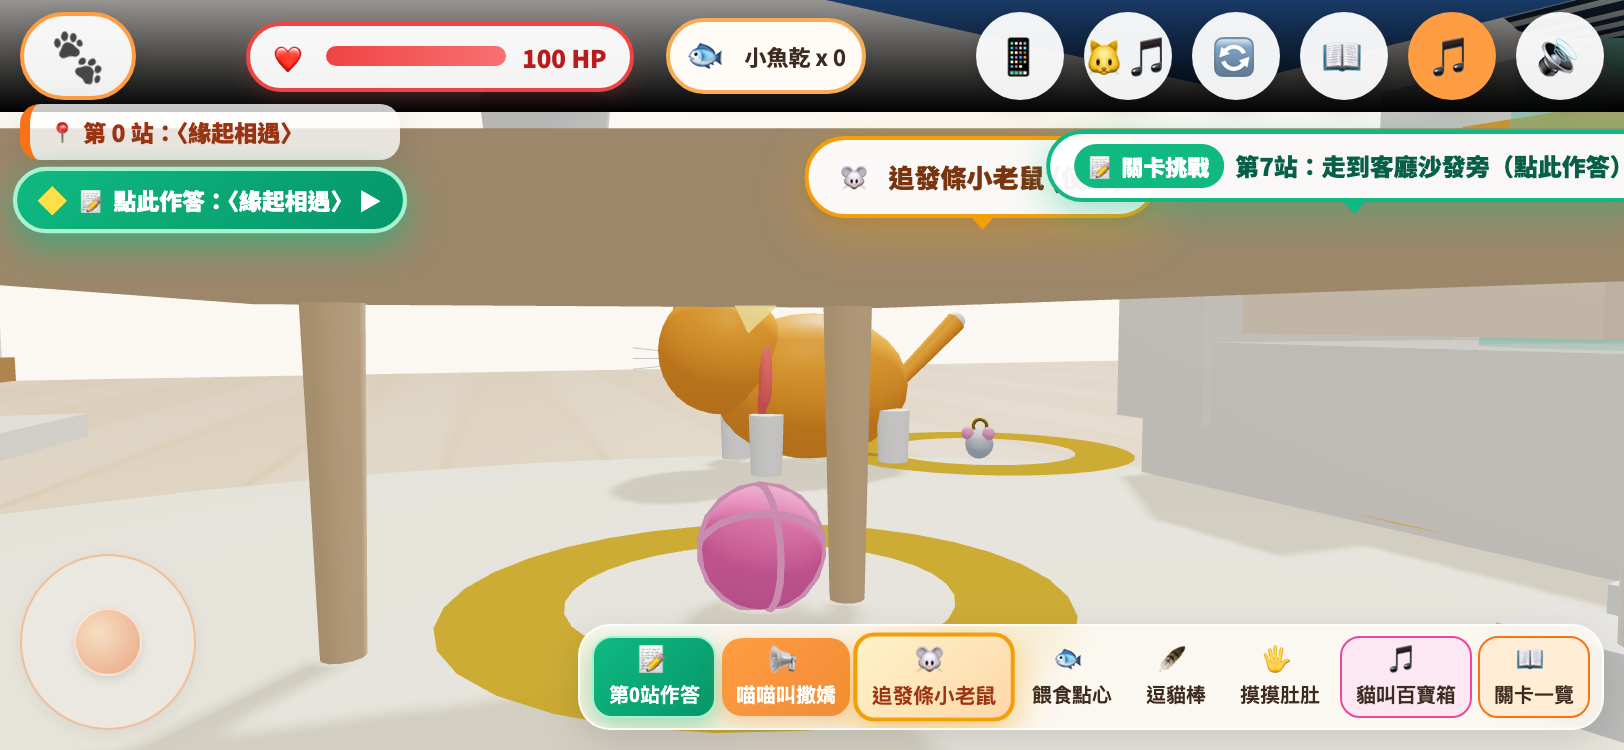
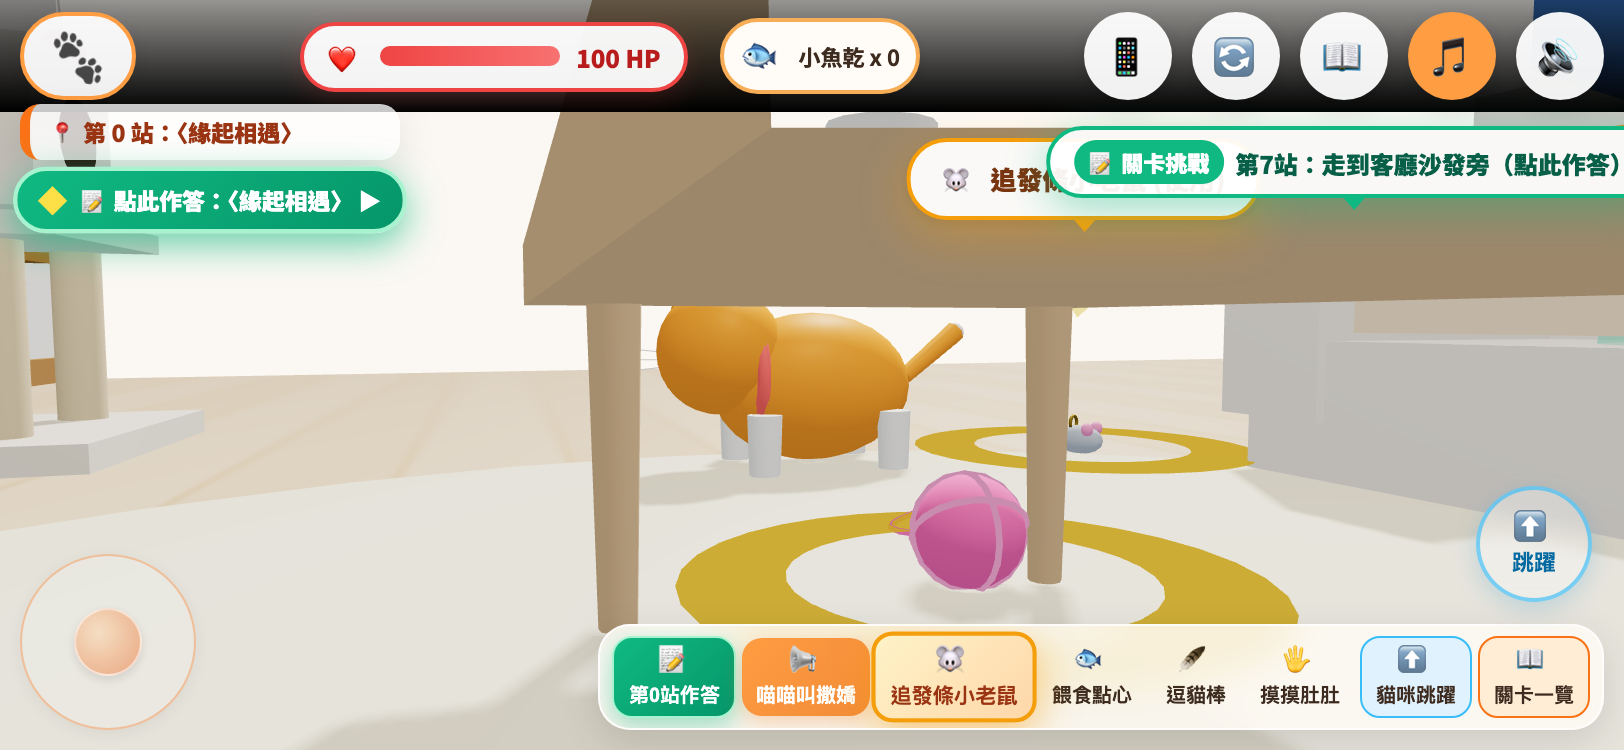
feat(ui,audio): remove soundboard, add anti-spam locks on meows and voices, add mobile/tablet jump buttons

diff --git a/js/game.js b/js/game.js
@@ -1649,7 +1649,17 @@ class GameEngine {
     if (btnLabel) btnLabel.textContent = isSitting ? '離開沙發' : '坐上沙發';
   }
 
+  acquireActionLock(ms = 2400) {
+    const now = Date.now();
+    if (this._actionLockUntil && now < this._actionLockUntil) {
+      return false;
+    }
+    this._actionLockUntil = now + ms;
+    return true;
+  }
+
   playWand() {
+    if (!this.acquireActionLock(2400)) return;
     if (window.soundSystem) {
       window.soundSystem.playClick();
       setTimeout(() => window.soundSystem.playRealMeow('playful'), 300);
@@ -1660,7 +1670,8 @@ class GameEngine {
     this.spawnHeartsNear(this.catPos);
 
     let step = 0;
-    const interval = setInterval(() => {
+    if (this._wandInterval) clearInterval(this._wandInterval);
+    this._wandInterval = setInterval(() => {
       step++;
       if (this.playerNodes.armR) {
         this.playerNodes.armR.rotation.x = Math.sin(step * 0.8) * 0.55;
@@ -1670,13 +1681,15 @@ class GameEngine {
         this.cat.position.y = 0 + Math.abs(Math.sin(step * 0.6)) * 0.22;
       }
       if (step > 15) {
-        clearInterval(interval);
+        clearInterval(this._wandInterval);
+        this._wandInterval = null;
         if (this.cat && this.catIsGrounded) this.cat.position.y = 0;
       }
     }, 50);
   }
 
   petCatHead() {
+    if (!this.acquireActionLock(2600)) return;
     this.isPetting = true;
     if (window.soundSystem) {
       window.soundSystem.startPurr();
@@ -1690,11 +1703,12 @@ class GameEngine {
     setTimeout(() => {
       this.isPetting = false;
       if (window.soundSystem) window.soundSystem.stopPurr();
-    }, 2800);
+    }, 2600);
   }
 
   feedCat() {
     if (!window.curriculumSystem) return;
+    if (!this.acquireActionLock(2400)) return;
 
     const success = window.curriculumSystem.consumeTreat();
     if (success) {
@@ -1731,15 +1745,13 @@ class GameEngine {
   }
 
   chatMeow() {
+    if (!this.acquireActionLock(2800)) return;
     if (window.voiceSystem) {
       window.voiceSystem.speak('chat');
     }
     setTimeout(() => {
       if (window.soundSystem) window.soundSystem.playRealMeow('calling');
-    }, 800);
-    setTimeout(() => {
-      if (window.soundSystem) window.soundSystem.playRealMeow('response');
-    }, 1800);
+    }, 900);
   }
 
   spawnHeartsNear(pos) {
@@ -1891,27 +1903,44 @@ class GameEngine {
   }
 
   catJump() {
-    if (this.catIsGrounded) {
-      this.catVelocityY = 4.2;
+    const now = Date.now();
+    if (this._lastJumpTime && now - this._lastJumpTime < 650) return;
+    this._lastJumpTime = now;
+
+    if (this.catState === 'sleep_belly_up') {
+      this.catState = 'walk';
+      this.bellyUpFactor = 0;
+      if (window.soundSystem) window.soundSystem.stopPurr();
+    }
+
+    if (this.catIsGrounded || this.catPos.y <= this.getSurfaceHeight(this.catPos.x, this.catPos.z) + 0.05) {
+      this.catVelocityY = 4.6;
       this.catIsGrounded = false;
       this.catState = 'jumping';
+
+      // 若小貓站在沙發前緣，按下跳躍可輕鬆一躍跳上沙發座墊；若在沙發上按下跳躍則可輕巧跳下地面
+      if (Math.abs(this.catPos.x) < 1.35 && this.catPos.z > 0.25 && this.catPos.z < 0.92 && this.catPos.y < 0.2) {
+        this.catPos.z = 1.25;
+      } else if (this.catPos.y >= 0.50 && this.catPos.z >= 0.92 && this.catPos.z <= 1.76 && !this.isCatMoving) {
+        this.catPos.z = 0.55;
+      }
+
       if (window.soundSystem) {
         window.soundSystem.stopPurr();
-        window.soundSystem.playMeow('high');
+        window.soundSystem.playClick();
       }
     }
   }
 
   catMeow() {
-    let clipDesc = '喵～～';
+    if (!this.acquireActionLock(2000)) return;
     if (window.soundSystem) {
-      const clip = window.soundSystem.playRealMeow();
-      if (clip) clipDesc = `${clip.label}（${clip.desc}）`;
+      window.soundSystem.playRealMeow();
     }
-    this.showPrompt(`🐾 小女生真實叫聲：${clipDesc}！🐱`);
   }
 
   catRollOver() {
+    if (!this.acquireActionLock(1500)) return;
     if (this.catState === 'sleep_belly_up') {
       // 若已在翻肚，再次按下 B 鍵主動翻回站立，並立即停止呼嚕！
       this.catState = 'sit';
@@ -1927,6 +1956,7 @@ class GameEngine {
   }
 
   callCat() {
+    if (!this.acquireActionLock(2800)) return;
     if (window.soundSystem) window.soundSystem.resume();
     if (window.voiceSystem) {
       window.voiceSystem.speak('call');
@@ -1938,14 +1968,12 @@ class GameEngine {
         this.setCatAIState('walk_to_player', true);
         if (window.soundSystem) {
           window.soundSystem.playRealMeow('calling');
-          setTimeout(() => window.soundSystem.playRealMeow('response'), 750);
-          setTimeout(() => window.soundSystem.playRealMeow('happy'), 1600);
         }
       } else {
         this.setCatAIState('unhappy');
         if (window.soundSystem) window.soundSystem.playRealMeow('growl');
       }
-    }, 800);
+    }, 900);
   }
 
   setCatAIState(state, happy = true) {
@@ -2783,7 +2811,7 @@ class GameEngine {
       nextPos.x += normDir.x * currentSpeed * delta;
       nextPos.z += normDir.z * currentSpeed * delta;
 
-      const isCatOnSofa = this.catPos.y >= 0.52;
+      const isCatOnSofa = this.catPos.y >= 0.25 || !this.catIsGrounded;
       const resolved = this.resolveCollision(nextPos, 0.22, false, isCatOnSofa);
 
       this.catPos.x = resolved.x;

diff --git a/js/audio.js b/js/audio.js
@@ -72,6 +72,9 @@ class SoundSystem {
     this.audioBuffers = new Map();
     this.audioElements = new Map();
     this.isPurring = false;
+    this.meowLockUntil = 0;
+    this.activeMeowSource = null;
+    this.activeMeowAudio = null;
   }
 
   init() {
@@ -149,6 +152,15 @@ class SoundSystem {
     this.resume();
     if (this.isMuted) return null;
 
+    // 防連點保護：若上一段貓叫聲仍在播放中或冷卻時間未到，直接忽略新觸發，杜絕連按狂叫
+    const now = Date.now();
+    if (now < this.meowLockUntil) {
+      return null;
+    }
+    if (this.activeMeowAudio && !this.activeMeowAudio.paused && !this.activeMeowAudio.ended) {
+      return null;
+    }
+
     let candidates = this.catalog;
     if (categoryOrId && categoryOrId !== 'random') {
       const byId = this.catalog.find(m => m.id === categoryOrId);
@@ -161,6 +173,8 @@ class SoundSystem {
     }
 
     const item = candidates[Math.floor(Math.random() * candidates.length)] || this.catalog[0];
+    const lockMs = Math.max(1800, Math.round((item.duration || 1.6) * 1000) + 250);
+    this.meowLockUntil = now + lockMs;
 
     // 優先使用 Web Audio API 解碼 Buffer 播放（具備隨機微幅 pitch 變奏）
     if (this.audioBuffers.has(item.id)) {
@@ -171,6 +185,10 @@ class SoundSystem {
         // 隨機微調播放速率 0.96 ~ 1.04，使同一段叫聲每次聽起來都有細膩真實感
         source.playbackRate.value = 0.96 + Math.random() * 0.08;
         source.connect(this.sfxGain);
+        this.activeMeowSource = source;
+        source.onended = () => {
+          if (this.activeMeowSource === source) this.activeMeowSource = null;
+        };
         source.start(0);
         return item;
       } catch (e) {}
@@ -180,6 +198,10 @@ class SoundSystem {
     try {
       const audio = new Audio(item.file);
       audio.volume = 0.8;
+      this.activeMeowAudio = audio;
+      audio.onended = () => {
+        if (this.activeMeowAudio === audio) this.activeMeowAudio = null;
+      };
       audio.play().catch(() => {
         // 若完全不支援音訊檔案則降級為程式合成
         this.playSyntheticMeow(item.category);
@@ -589,6 +611,16 @@ class VoiceSystem {
       return;
     }
 
+    const now = Date.now();
+    // 防連點保護：若目前已有任何語音正在播放中，或距離上次語音觸發未滿 2.5 秒，嚴格忽略新觸發，防止學生狂按導致語音重複鬼打牆
+    if (
+      (this.voiceLockUntil && now < this.voiceLockUntil) ||
+      (this.currentAudio && !this.currentAudio.paused && !this.currentAudio.ended) ||
+      (this.synth && this.synth.speaking)
+    ) {
+      return;
+    }
+
     // 尋找匹配的高音質自然語音檔案
     let foundKey = this.clipMap[textOrKey] ? textOrKey : null;
     let foundEntry = foundKey ? this.clipMap[foundKey] : null;
@@ -606,32 +638,9 @@ class VoiceSystem {
 
     const displayText = foundEntry ? foundEntry.text : textOrKey;
     this.showSubtitle(displayText, subtitleTitle);
+    this.voiceLockUntil = now + 2600;
 
     if (foundEntry) {
-      const now = Date.now();
-      // 若同一支語音剛在 2.2 秒內啟動且正在播放中，避免重複觸發把自己的聲音切斷
-      if (
-        foundKey &&
-        this.lastPlayedKey === foundKey &&
-        now - this.lastPlayedTime < 2200 &&
-        this.currentAudio &&
-        !this.currentAudio.paused &&
-        !this.currentAudio.ended
-      ) {
-        if (callback) {
-          this.currentAudio.onended = callback;
-        }
-        return;
-      }
-
-      // 停止先前播放的其他語音
-      if (this.currentAudio) {
-        try {
-          this.currentAudio.pause();
-          this.currentAudio.currentTime = 0;
-        } catch (e) {}
-      }
-
       const audio = (foundKey && this.audioPool[foundKey]) ? this.audioPool[foundKey] : new Audio(foundEntry.file);
       audio.muted = false;
       audio.volume = 0.98;
@@ -643,13 +652,13 @@ class VoiceSystem {
       this.lastPlayedKey = foundKey;
       this.lastPlayedTime = now;
 
-      if (callback) {
-        audio.onended = callback;
-      } else {
-        audio.onended = null;
-      }
+      audio.onended = () => {
+        this.voiceLockUntil = Date.now() + 300;
+        if (callback) callback();
+      };
 
       audio.play().catch(() => {
+        this.voiceLockUntil = 0;
         // 若音檔尚未放入或瀏覽器阻擋，使用預備合成語音
         this.speakFallback(displayText, callback);
       });

diff --git a/index.html b/index.html
@@ -6,7 +6,7 @@
   <meta name="apple-mobile-web-app-capable" content="yes">
   <meta name="apple-mobile-web-app-status-bar-style" content="black-translucent">
   <title>《小女生：膠水貓大冒險》3D 沉浸式教育遊戲</title>
-  <link rel="stylesheet" href="css/style.css?v=20261027_10">
+  <link rel="stylesheet" href="css/style.css?v=20261027_11">
   <!-- Three.js 核心庫 (CDN) -->
   <script src="https://cdnjs.cloudflare.com/ajax/libs/three.js/r128/three.min.js"></script>
 </head>
@@ -122,7 +122,6 @@
 
       <div class="controls-top">
         <button class="icon-btn" id="btn-qrcode" title="手機掃碼遊玩 (QR Code)" onclick="openQrModal()">📱</button>
-        <button class="icon-btn" id="btn-soundboard" title="貓叫聲百寶箱 (30種音效)" onclick="openSoundboard()">🐱🎵</button>
         <button class="icon-btn" id="btn-toggle-view" title="切換身分 (V)">🔄</button>
         <button class="icon-btn" id="btn-stages-top" title="關卡一覽 (章節)" onclick="curriculumSystem.openStagesModal()">📖</button>
         <button class="icon-btn" id="btn-bgm" title="開關音樂">🎵</button>
@@ -203,9 +202,9 @@
           <span class="btn-icon">🖐</span>
           <span>摸摸肚肚</span>
         </button>
-        <button class="dock-btn" style="background:#fce7f3; border: 1.5px solid #ec4899;" onclick="openSoundboard()">
-          <span class="btn-icon">🎵</span>
-          <span>貓叫百寶箱</span>
+        <button class="dock-btn" id="btn-jump-dock" style="background:#e0f2fe; border: 1.5px solid #38bdf8;" onclick="game.catJump()">
+          <span class="btn-icon">⬆</span>
+          <span>貓咪跳躍</span>
         </button>
         <button class="dock-btn" style="background:#ffedd5; border: 1.5px solid #f97316;" onclick="curriculumSystem.openStagesModal()">
           <span class="btn-icon">📖</span>
@@ -213,6 +212,12 @@
         </button>
       </div>
     </footer>
+
+    <!-- 手機與平板專屬獨立跳躍鍵 (支援左手推搖桿同時右手點跳躍) -->
+    <button id="btn-touch-jump" class="touch-jump-btn" onclick="game.catJump()" ontouchstart="event.preventDefault(); game.catJump();">
+      <span style="font-size:16px; line-height:1;">⬆</span>
+      <span style="font-size:11px; font-weight:800;">跳躍</span>
+    </button>
 
     <!-- 行動裝置虛擬搖桿 (#pad 與 #padKnob，滿足 touch_check.py 檢查) -->
     <div id="pad">
@@ -350,10 +355,10 @@
   </div>
 
   <!-- 依序載入關卡題庫、音效系統、教學邏輯與 3D 引擎 -->
-  <script src="js/stations.js?v=20261027_10"></script>
-  <script src="js/audio.js?v=20261027_10"></script>
-  <script src="js/curriculum.js?v=20261027_10"></script>
-  <script src="js/game.js?v=20261027_10"></script>
+  <script src="js/stations.js?v=20261027_11"></script>
+  <script src="js/audio.js?v=20261027_11"></script>
+  <script src="js/curriculum.js?v=20261027_11"></script>
+  <script src="js/game.js?v=20261027_11"></script>
 
   <script>
     function selectRole(role) {

diff --git a/css/style.css b/css/style.css
@@ -1874,7 +1874,39 @@ body.screen-hurt::after {
   to { transform: scale(1.06); box-shadow: 0 8px 22px rgba(245, 158, 11, 0.7); }
 }
 
-/* 右下操作列專屬醒目「本關作答」按鈕 */
+/* 手機與平板專屬獨立半透明跳躍鍵 */
+.touch-jump-btn {
+  position: fixed;
+  right: 16px;
+  bottom: 74px;
+  width: 58px;
+  height: 58px;
+  border-radius: 50%;
+  background: rgba(255, 255, 255, 0.35);
+  backdrop-filter: blur(4px);
+  -webkit-backdrop-filter: blur(4px);
+  border: 2px solid rgba(56, 189, 248, 0.65);
+  color: #0369a1;
+  box-shadow: 0 4px 12px rgba(2, 132, 199, 0.18);
+  display: flex;
+  flex-direction: column;
+  align-items: center;
+  justify-content: center;
+  gap: 1px;
+  cursor: pointer;
+  z-index: 120;
+  touch-action: manipulation;
+  user-select: none;
+  -webkit-user-select: none;
+  transition: transform 0.15s ease, background 0.15s ease;
+}
+.touch-jump-btn:active {
+  transform: scale(0.92);
+  background: rgba(224, 242, 254, 0.65);
+}
+#soundboard-modal {
+  display: none !important;
+}
 .dock-btn.quiz-go-btn {
   background: linear-gradient(135deg, #10b981, #059669) !important;
   border: 1.5px solid #a7f3d0 !important;
